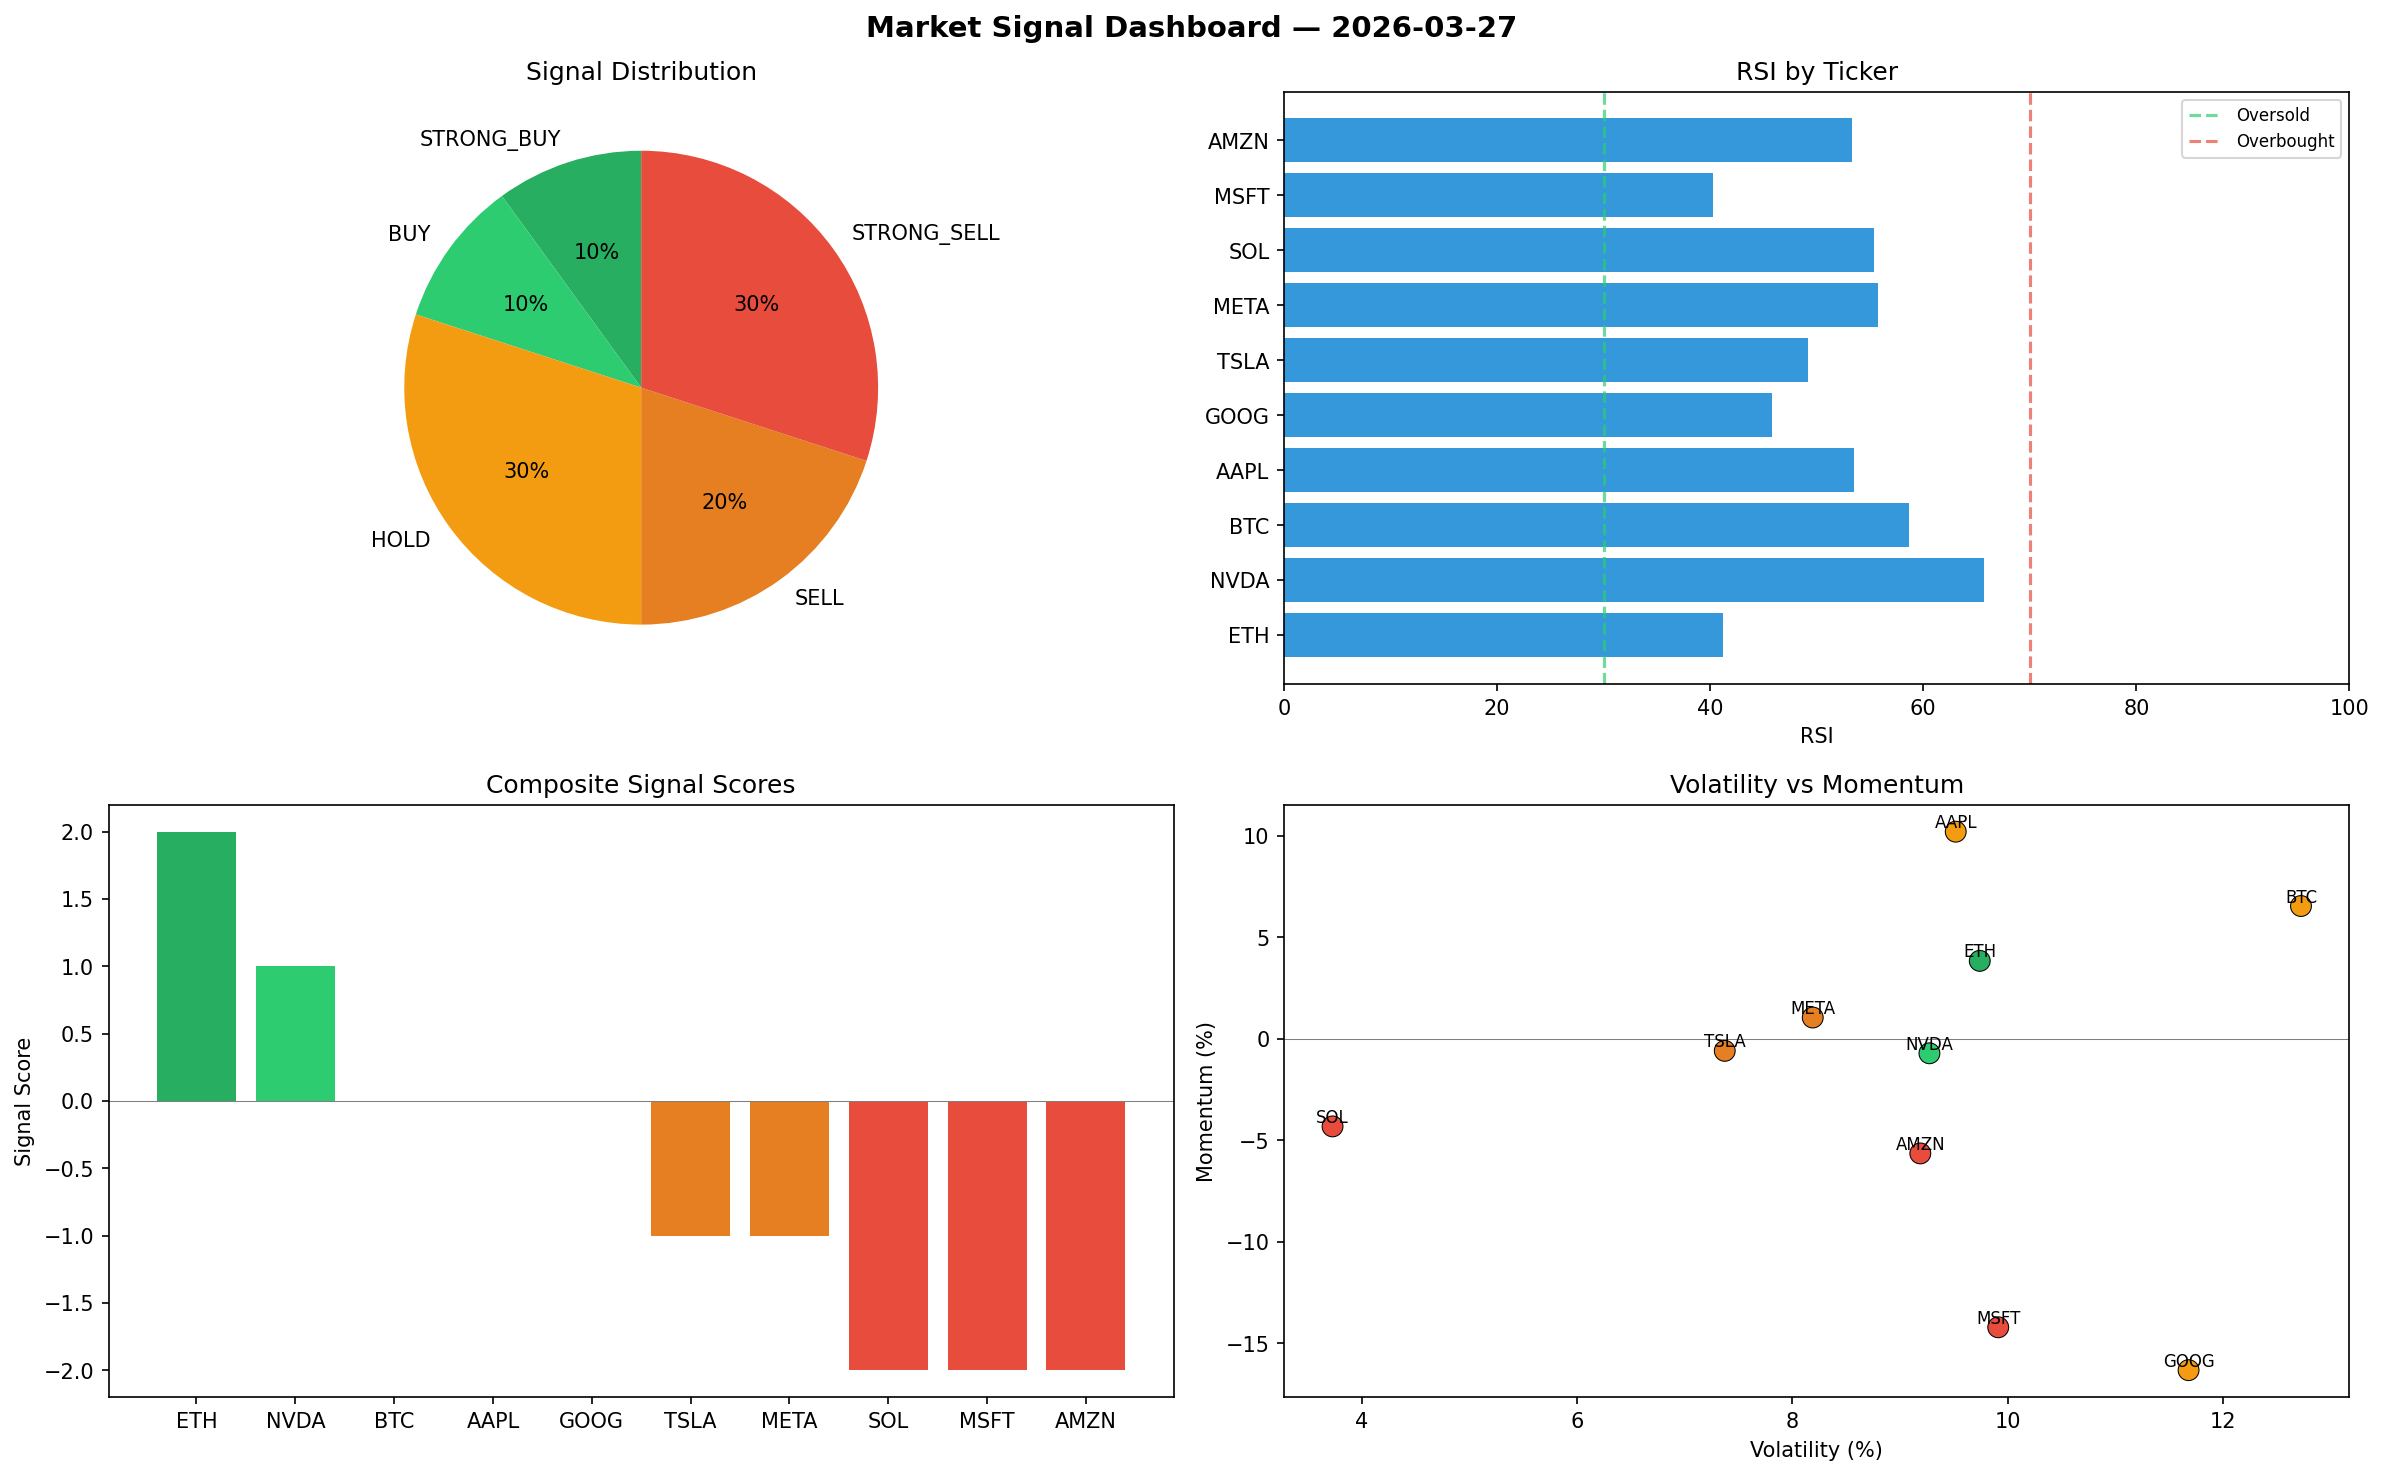
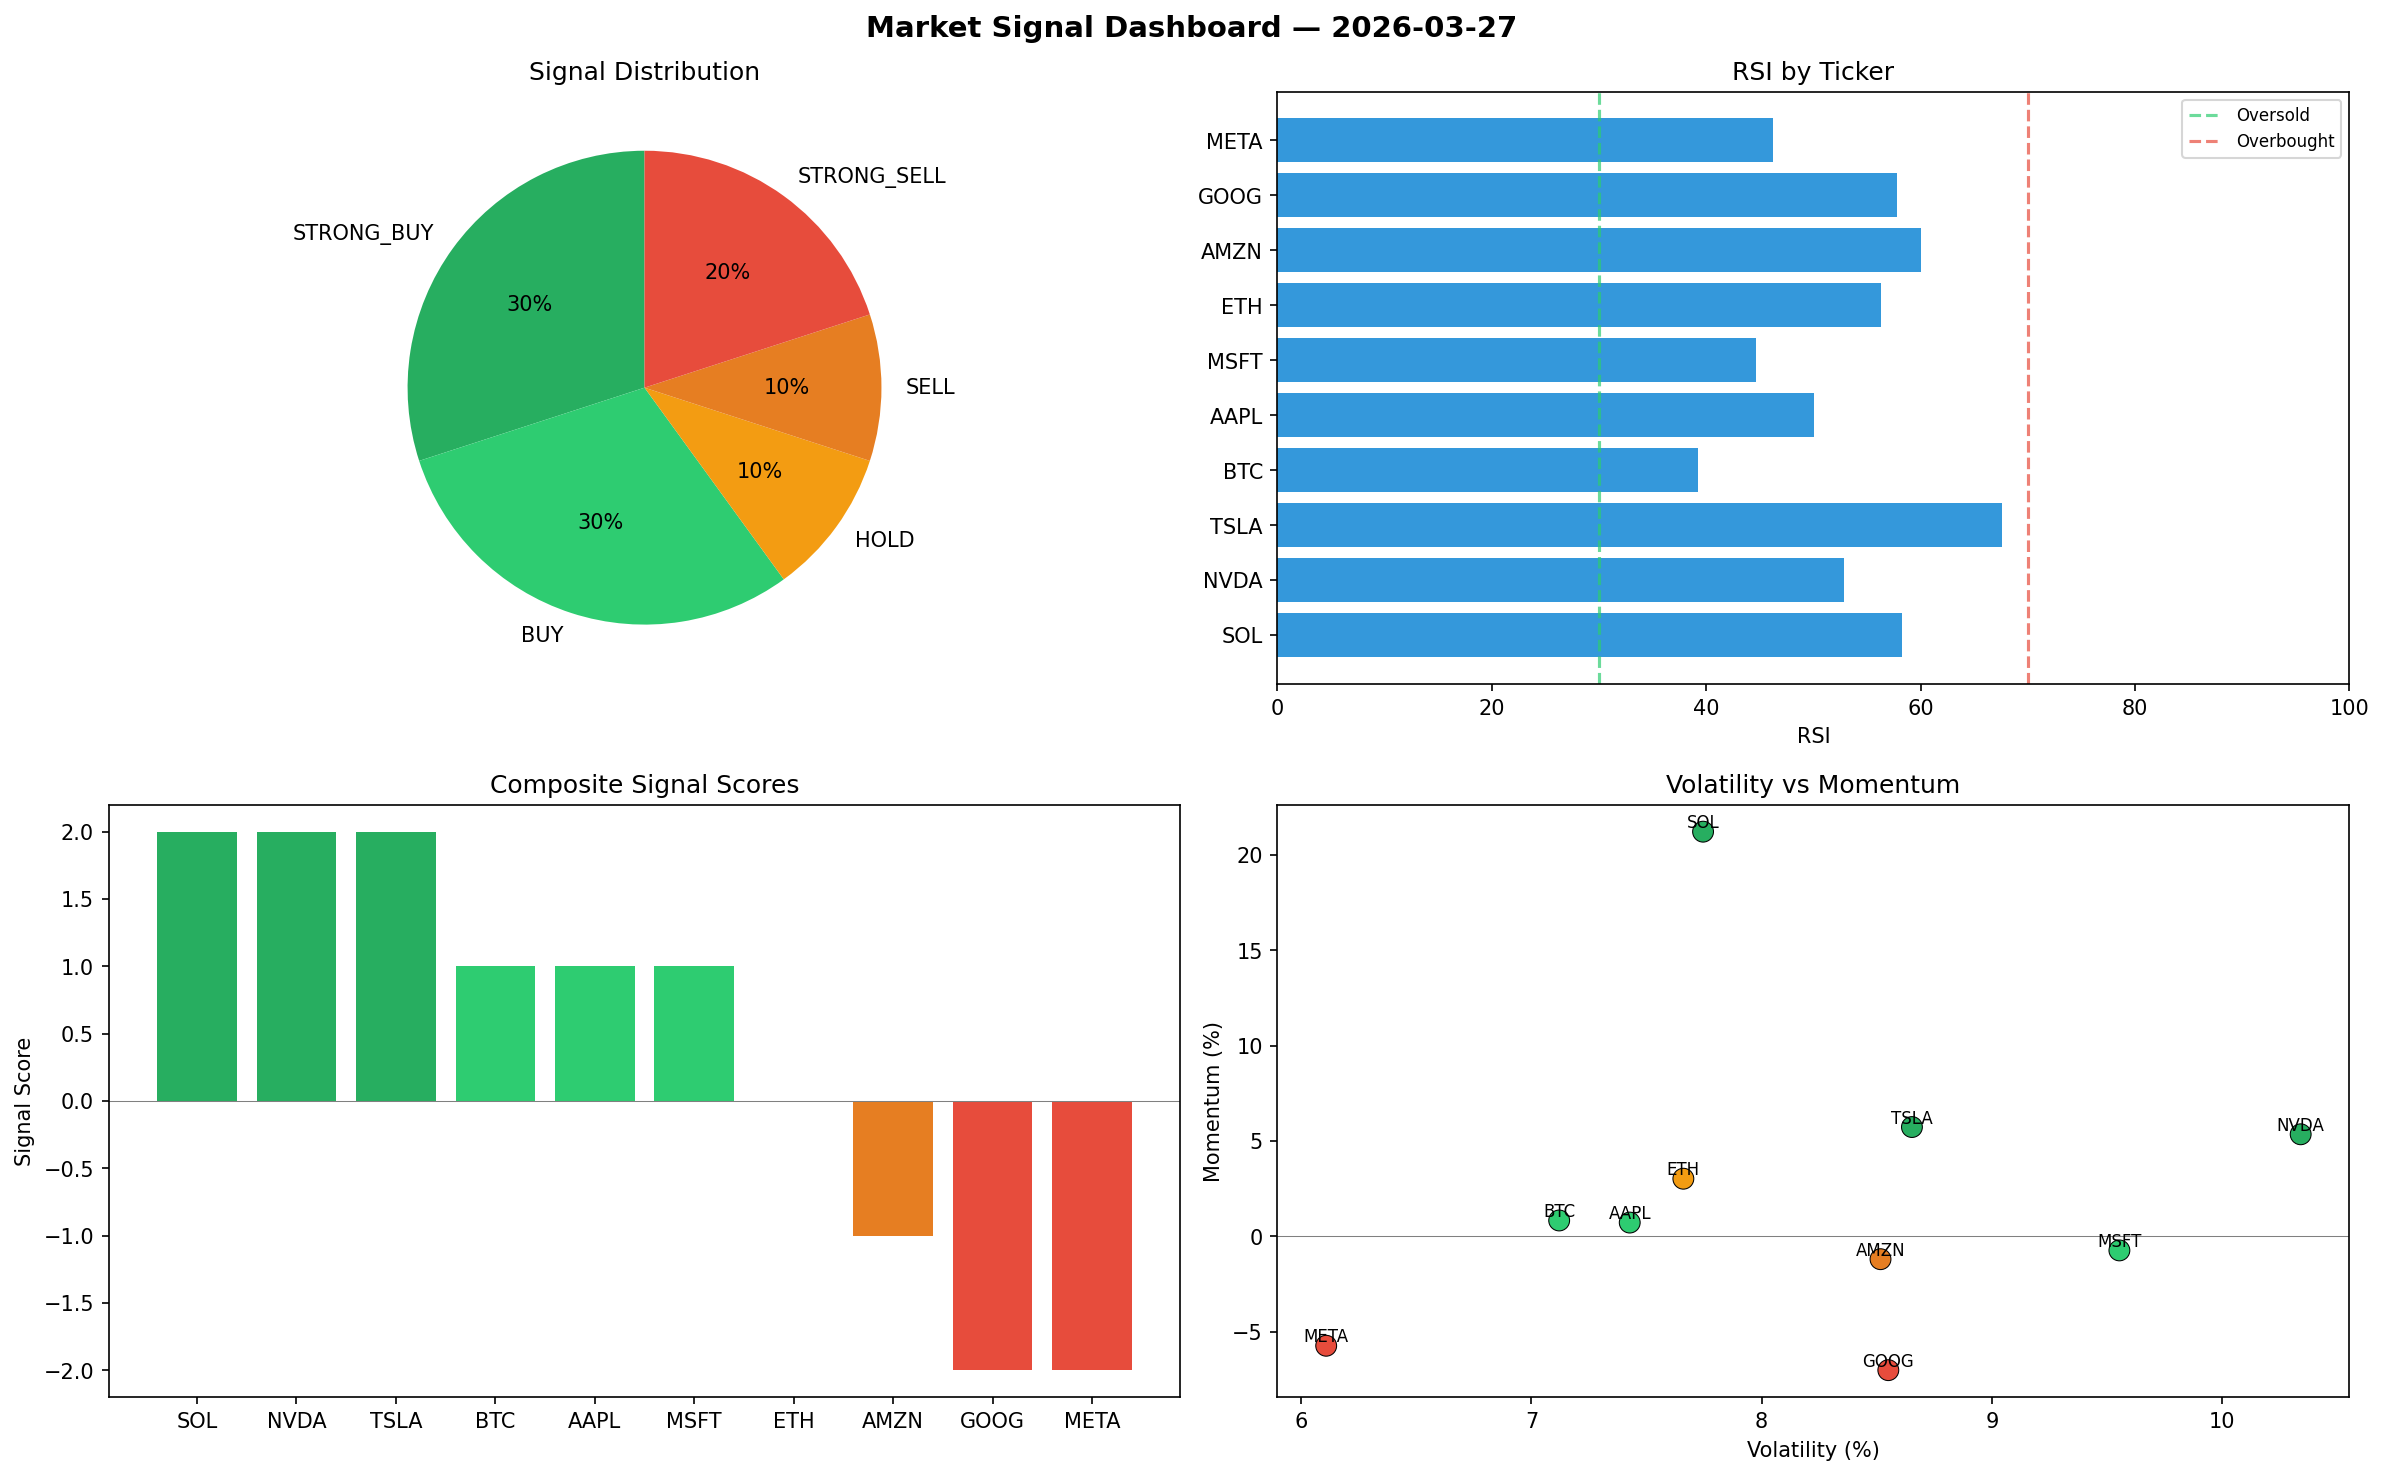
automated-bots: market signals 2026-03-27T15:26

diff --git a/logs/2026-03-27.md b/logs/2026-03-27.md
@@ -1,6 +1,6 @@
 # Market Signal Report — 2026-03-27
 
-**Run ID:** `0402ab99a2` | **Buy:** 2 | **Sell:** 5 | **Hold:** 3
+**Run ID:** `92ae0e0aba` | **Buy:** 6 | **Sell:** 3 | **Hold:** 1
 
 ![Dashboard](2026-03-27_dashboard.png)
 
@@ -8,28 +8,28 @@
 
 | Ticker | Price | Signal | Score | RSI | Momentum | Confidence |
 |--------|-------|--------|-------|-----|----------|------------|
-| ETH | $1172.05 | **STRONG_BUY** | 2 | 41.22 | 0.0383 | 0.5 |
-| NVDA | $3926.97 | **BUY** | 1 | 65.68 | -0.0072 | 0.25 |
-| BTC | $3518.48 | **HOLD** | 0 | 58.66 | 0.0653 | 0.0 |
-| AAPL | $4406.84 | **HOLD** | 0 | 53.52 | 0.1019 | 0.0 |
-| GOOG | $2497.83 | **HOLD** | 0 | 45.8 | -0.1632 | 0.0 |
-| TSLA | $2380.28 | **SELL** | -1 | 49.19 | -0.006 | 0.25 |
-| META | $1023.92 | **SELL** | -1 | 55.74 | 0.0104 | 0.25 |
-| SOL | $802.95 | **STRONG_SELL** | -2 | 55.34 | -0.0432 | 0.5 |
-| MSFT | $2392.25 | **STRONG_SELL** | -2 | 40.28 | -0.1421 | 0.5 |
-| AMZN | $4278.78 | **STRONG_SELL** | -2 | 53.35 | -0.0565 | 0.5 |
+| SOL | $2403.8 | **STRONG_BUY** | 2 | 58.28 | 0.2122 | 0.5 |
+| NVDA | $4369.3 | **STRONG_BUY** | 2 | 52.81 | 0.0535 | 0.5 |
+| TSLA | $4648.0 | **STRONG_BUY** | 2 | 67.62 | 0.0573 | 0.5 |
+| BTC | $4013.92 | **BUY** | 1 | 39.26 | 0.0083 | 0.25 |
+| AAPL | $3229.66 | **BUY** | 1 | 50.04 | 0.0072 | 0.25 |
+| MSFT | $3360.69 | **BUY** | 1 | 44.67 | -0.0074 | 0.25 |
+| ETH | $3785.74 | **HOLD** | 0 | 56.29 | 0.0302 | 0.0 |
+| AMZN | $162.55 | **SELL** | -1 | 60.06 | -0.012 | 0.25 |
+| GOOG | $1417.45 | **STRONG_SELL** | -2 | 57.82 | -0.0702 | 0.5 |
+| META | $4292.26 | **STRONG_SELL** | -2 | 46.19 | -0.0574 | 0.5 |
 
 ## Delta vs Yesterday
 
 | Ticker | Today | Yesterday | Price Change | Signal Changed |
 |--------|-------|-----------|-------------|----------------|
-| ETH | STRONG_BUY | HOLD | 📉 -65.29% | ⚠ YES |
-| NVDA | BUY | HOLD | 📉 -16.66% | ⚠ YES |
-| BTC | HOLD | HOLD | 📉 -26.63% | — |
-| AAPL | HOLD | SELL | 📈 0.06% | ⚠ YES |
-| GOOG | HOLD | STRONG_SELL | 📉 -33.21% | ⚠ YES |
-| TSLA | SELL | HOLD | 📉 -26.01% | ⚠ YES |
-| META | SELL | HOLD | 📈 1778.41% | ⚠ YES |
-| SOL | STRONG_SELL | STRONG_SELL | 📉 -76.79% | — |
-| MSFT | STRONG_SELL | STRONG_BUY | 📉 -7.71% | ⚠ YES |
-| AMZN | STRONG_SELL | STRONG_BUY | 📈 103.78% | ⚠ YES |
+| SOL | STRONG_BUY | STRONG_SELL | 📉 -30.5% | ⚠ YES |
+| NVDA | STRONG_BUY | HOLD | 📉 -7.28% | ⚠ YES |
+| TSLA | STRONG_BUY | HOLD | 📈 44.49% | ⚠ YES |
+| BTC | BUY | HOLD | 📉 -16.3% | ⚠ YES |
+| AAPL | BUY | SELL | 📉 -26.67% | ⚠ YES |
+| MSFT | BUY | STRONG_BUY | 📈 29.66% | ⚠ YES |
+| ETH | HOLD | HOLD | 📈 12.12% | — |
+| AMZN | SELL | STRONG_BUY | 📉 -92.26% | ⚠ YES |
+| GOOG | STRONG_SELL | STRONG_SELL | 📉 -62.1% | — |
+| META | STRONG_SELL | HOLD | 📈 7774.26% | ⚠ YES |
